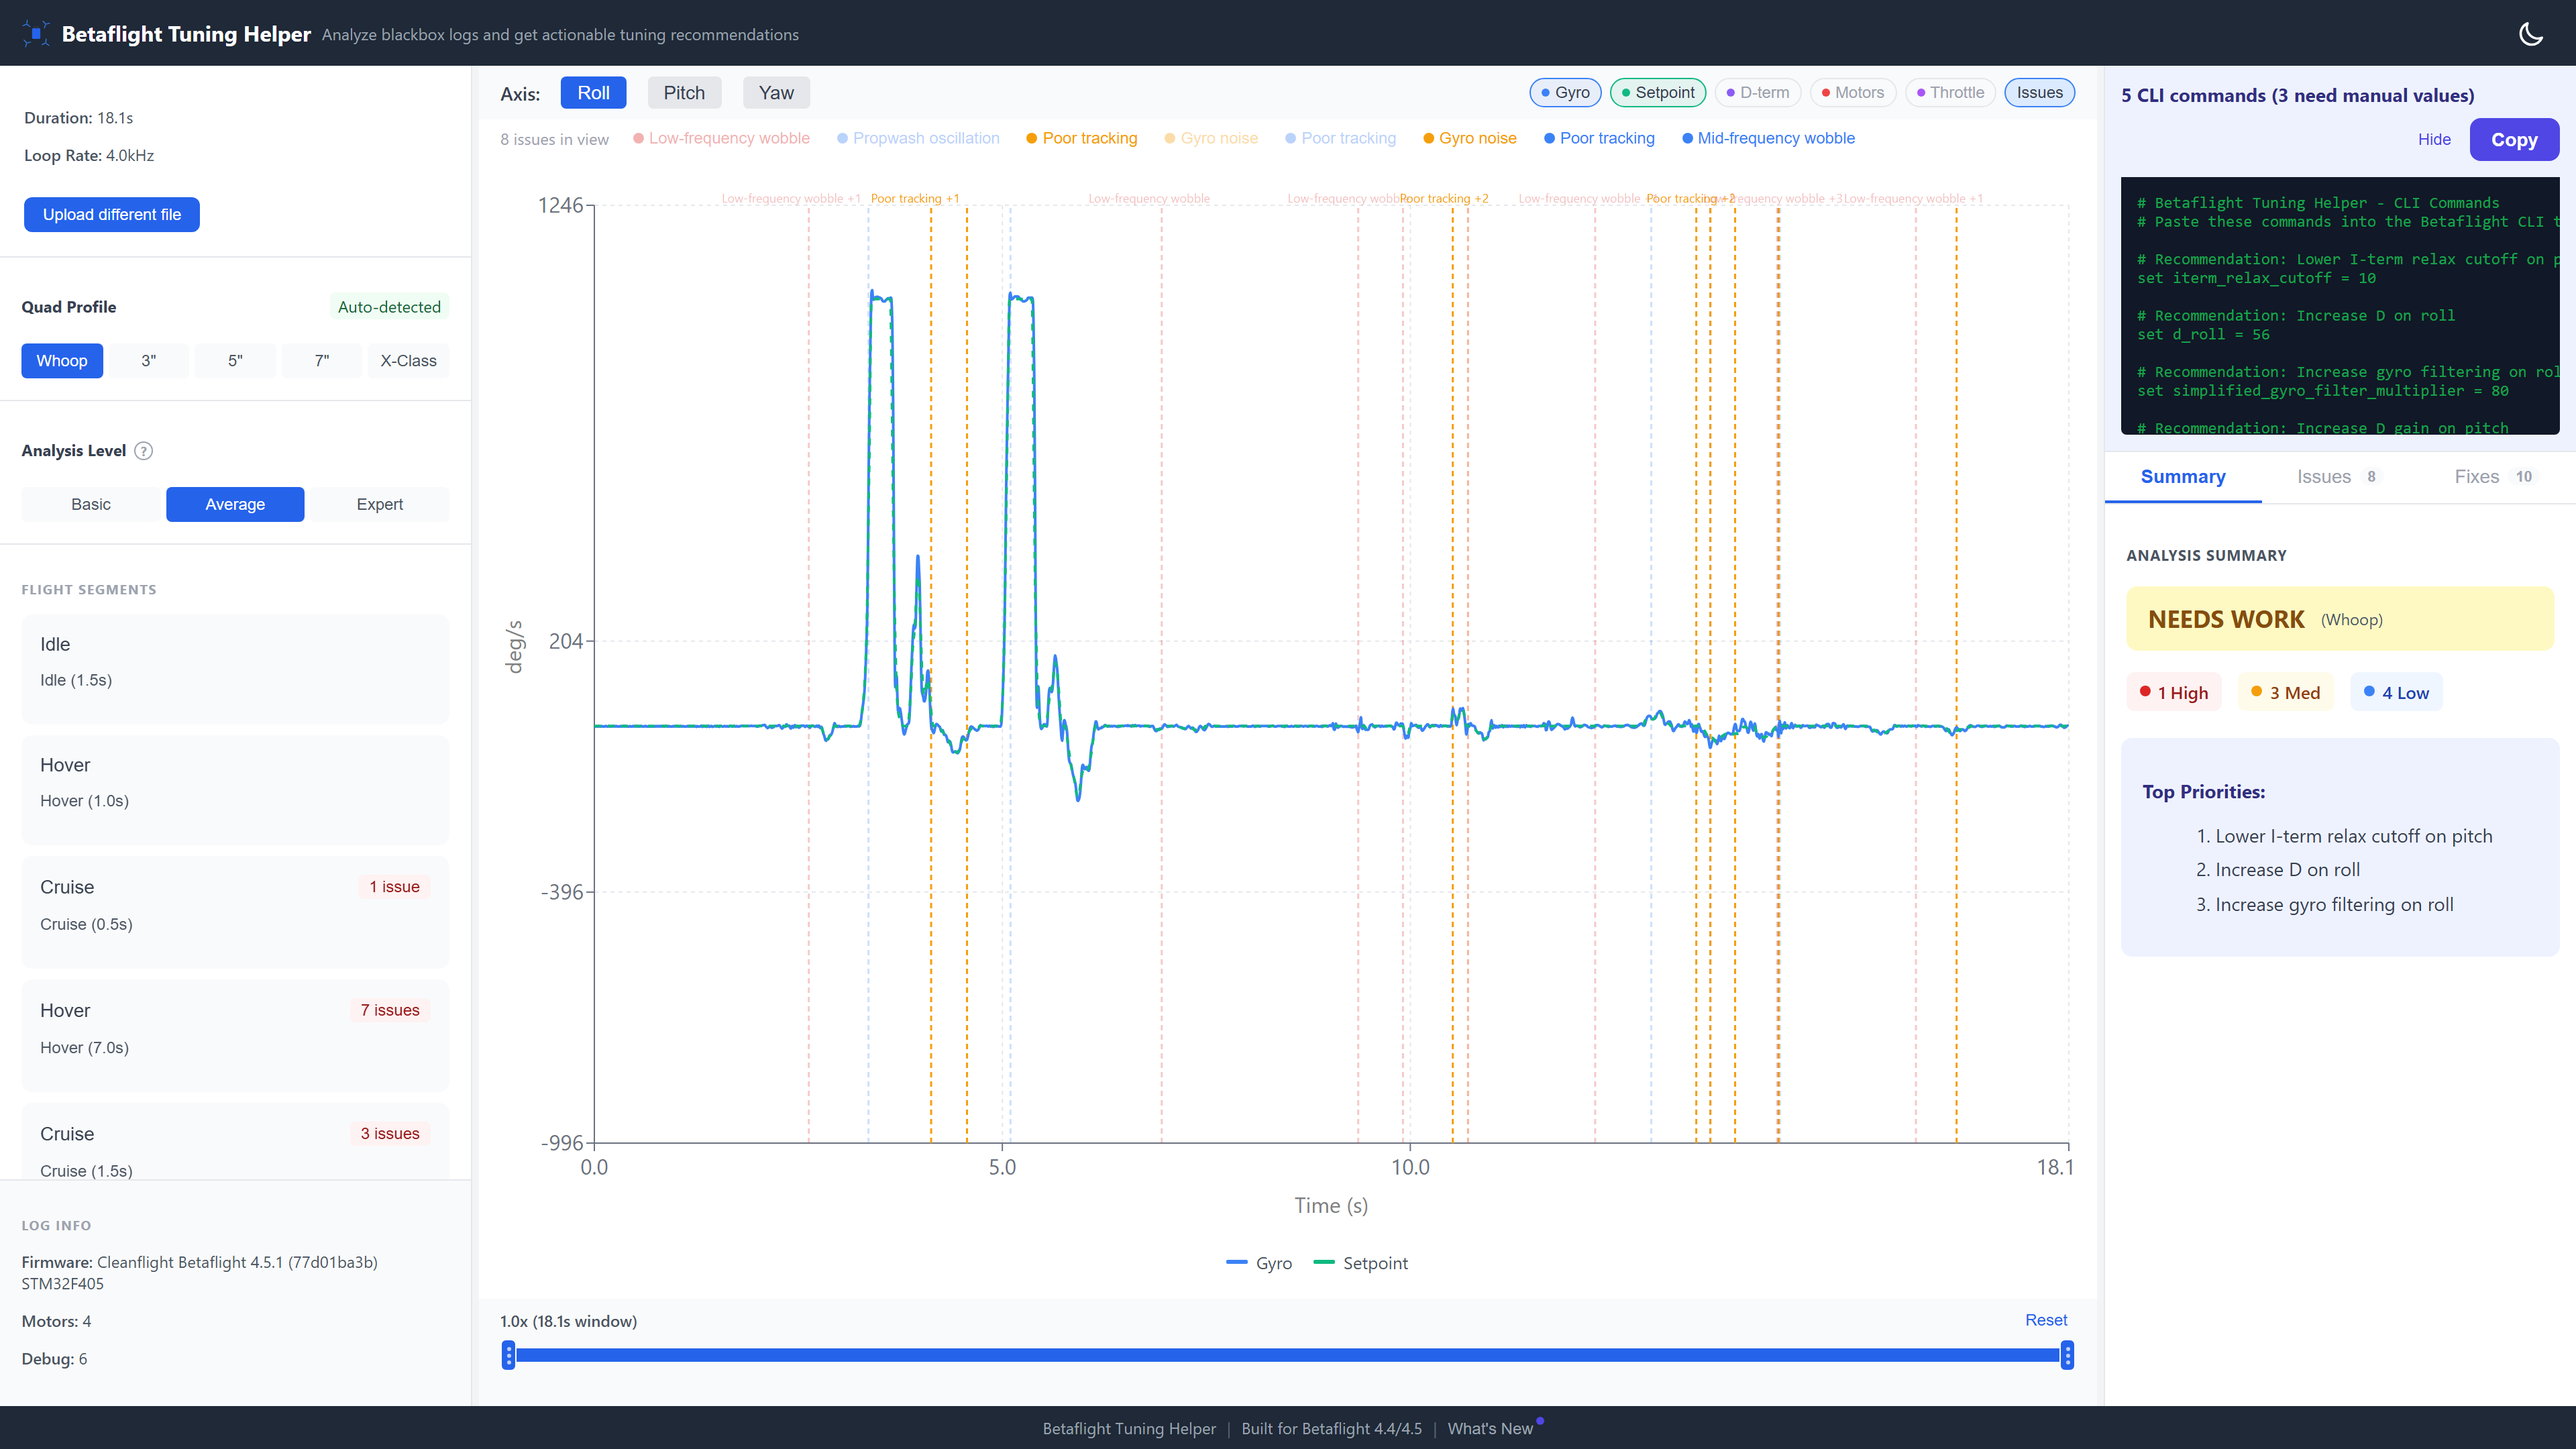
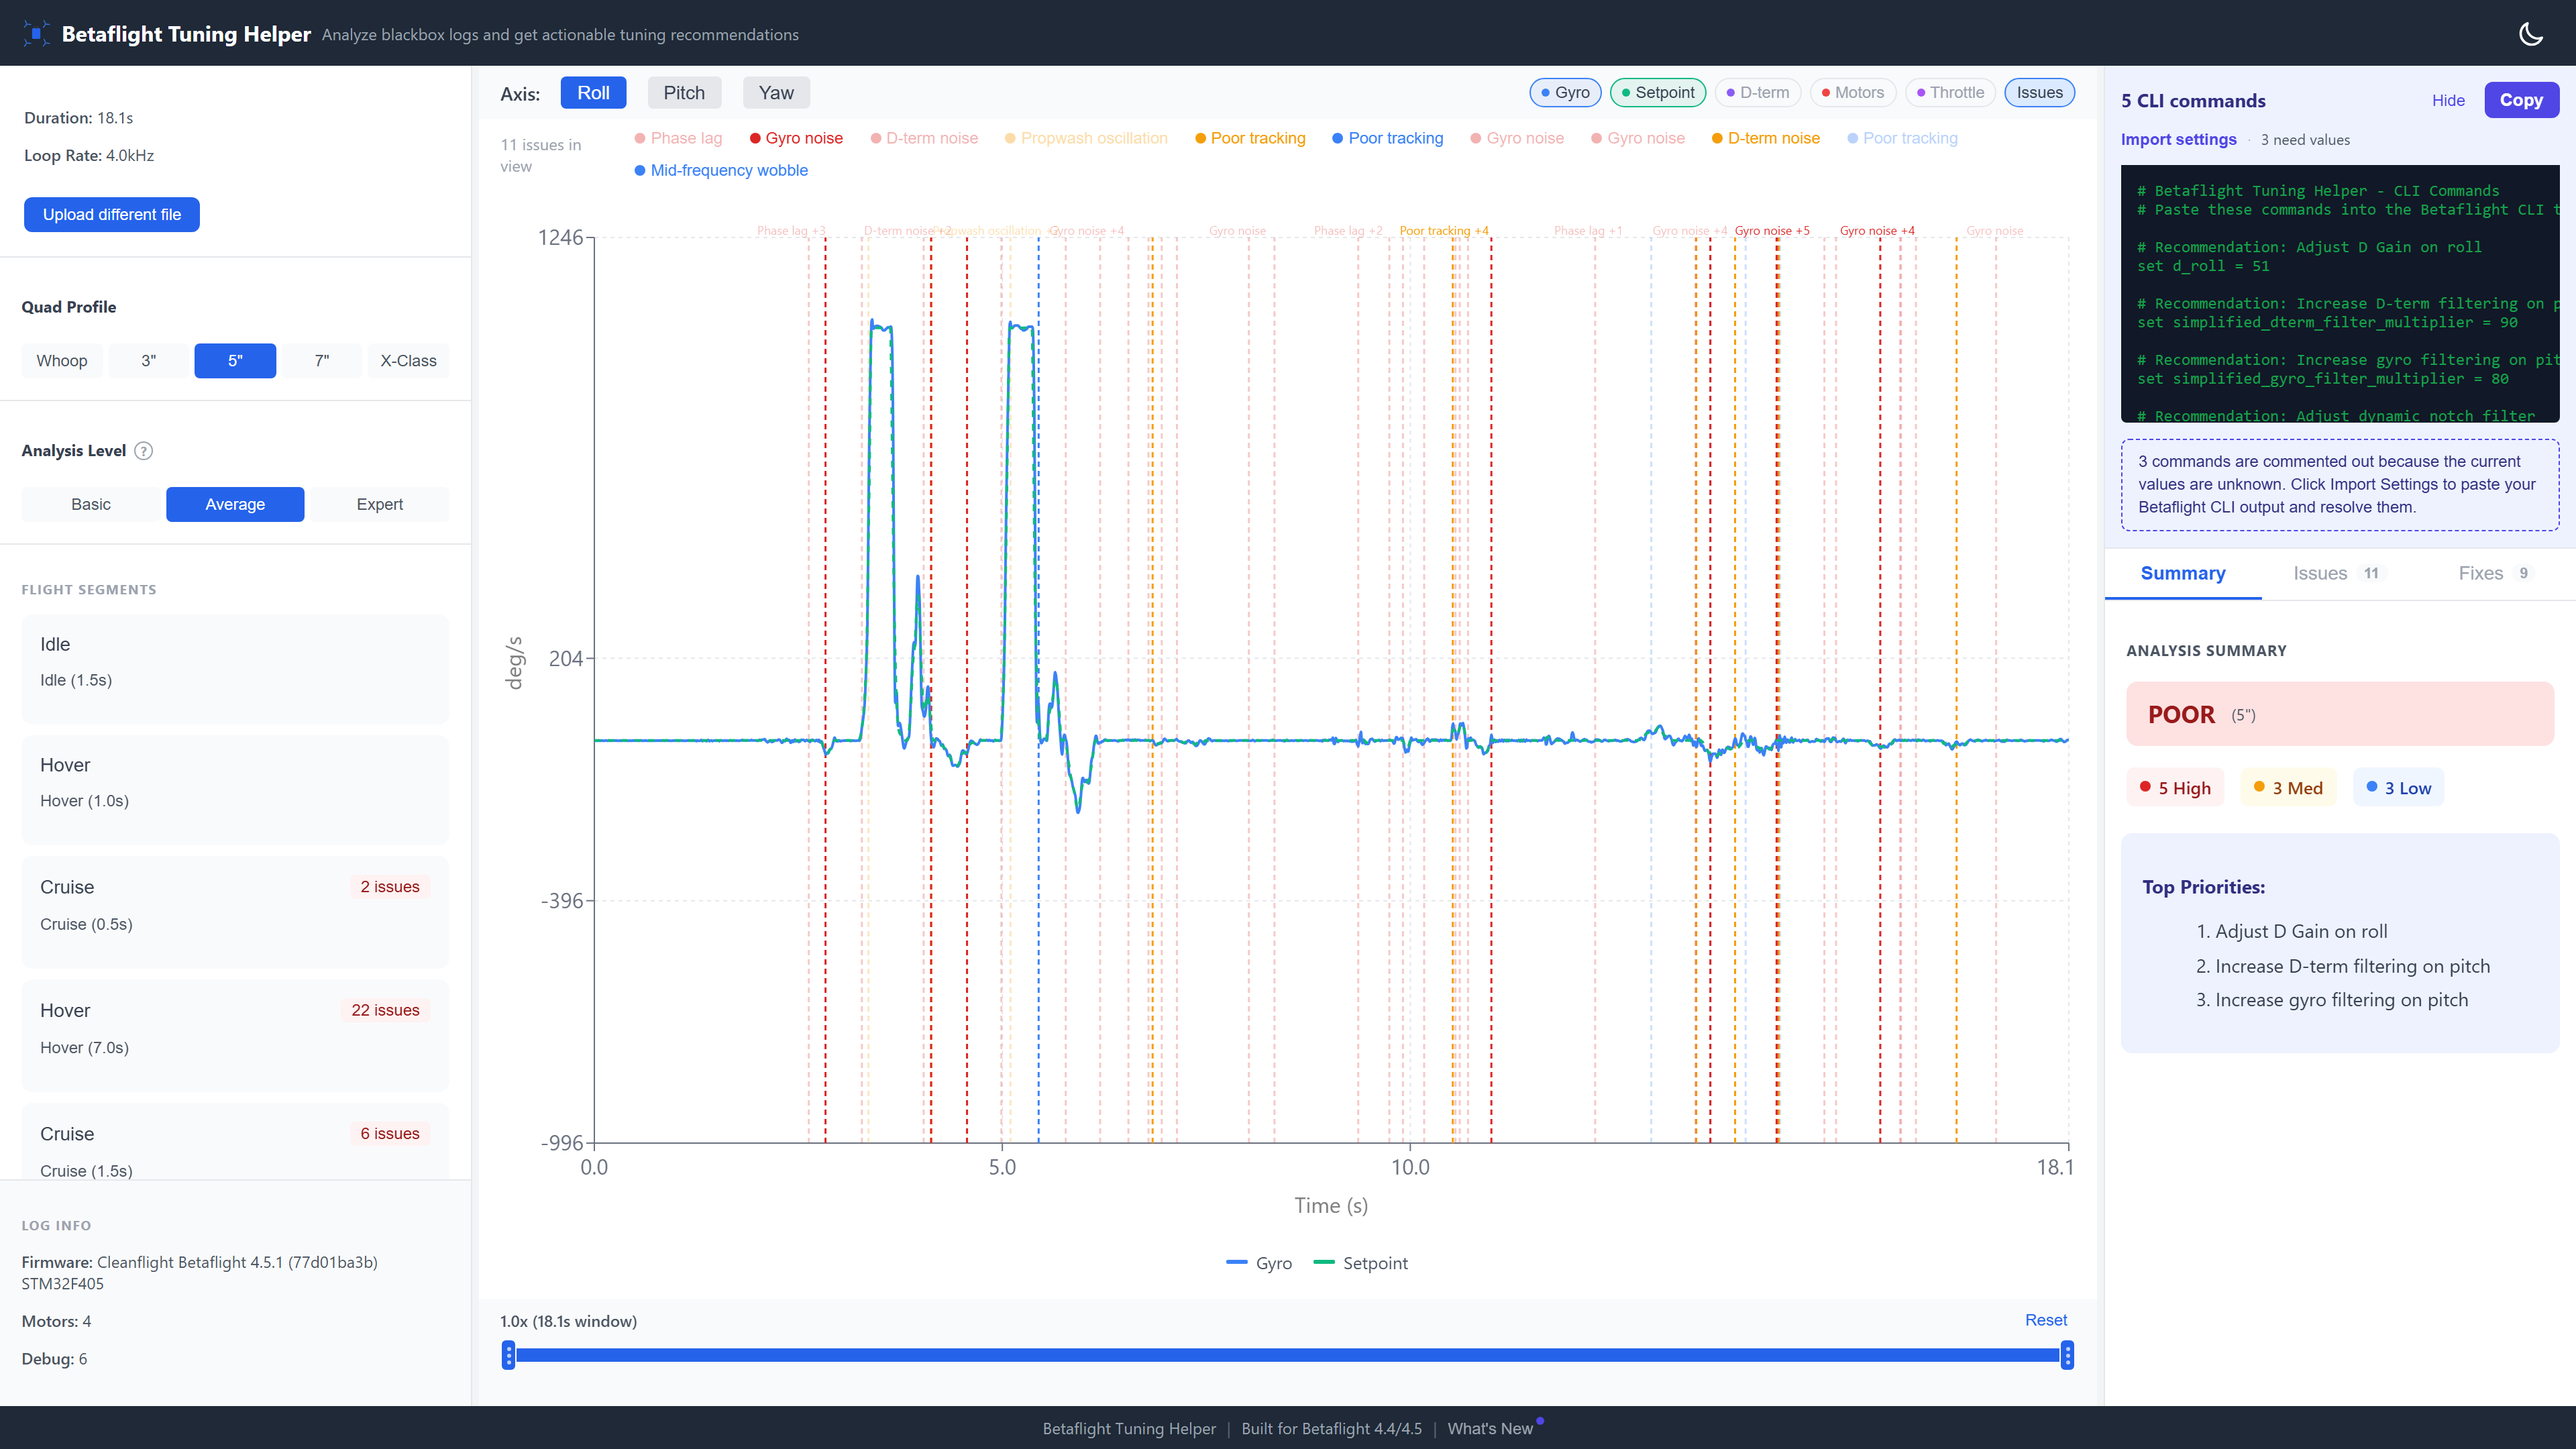
Default quad profile to 5" instead of unreliable auto-detection

diff --git a/src/components/ProfileSelector.tsx b/src/components/ProfileSelector.tsx
@@ -22,14 +22,6 @@ const SelectorTitle = styled.h3`
   color: ${p => p.theme.colors.text.primary};
 `
 
-const DetectionBadge = styled.span<{ variant: 'good' | 'low' }>`
-  font-size: 0.75rem;
-  padding: 0.125rem 0.375rem;
-  border-radius: 0.25rem;
-  color: ${p => p.variant === 'good' ? p.theme.colors.accent.greenText : p.theme.colors.severity.mediumText};
-  background-color: ${p => p.variant === 'good' ? p.theme.colors.accent.greenBg : p.theme.colors.severity.mediumBg};
-`
-
 const ButtonGroup = styled.div`
   display: flex;
   gap: 0.25rem;
@@ -50,15 +42,6 @@ const ProfileBtn = styled.button<{ isActive: boolean }>`
   &:hover {
     background-color: ${p => p.isActive ? p.theme.colors.button.primaryHover : p.theme.colors.button.secondaryHover};
   }
-`
-
-const ReasoningText = styled.p`
-  font-size: 0.75rem;
-  color: ${p => p.theme.colors.text.muted};
-  margin-top: 0.375rem;
-  overflow: hidden;
-  text-overflow: ellipsis;
-  white-space: nowrap;
 `
 
 const HelpIconWrapper = styled.span`
@@ -115,19 +98,12 @@ const ANALYSIS_LEVELS: { id: AnalysisLevel; label: string; description: string }
 
 export const ProfileSelector = observer(() => {
   const analysisStore = useAnalysisStore()
-  const detection = analysisStore.detectionResult
 
   return (
     <>
       <SelectorWrapper>
         <SelectorHeader>
           <SelectorTitle>Quad Profile</SelectorTitle>
-          {detection && detection.confidence >= 0.5 && (
-            <DetectionBadge variant="good">Auto-detected</DetectionBadge>
-          )}
-          {detection && detection.confidence < 0.5 && (
-            <DetectionBadge variant="low">Low confidence</DetectionBadge>
-          )}
         </SelectorHeader>
         <ButtonGroup>
           {QUAD_SIZE_ORDER.map(sizeId => {
@@ -145,11 +121,6 @@ export const ProfileSelector = observer(() => {
             )
           })}
         </ButtonGroup>
-        {detection && detection.reasoning.length > 0 && (
-          <ReasoningText title={detection.reasoning.join('; ')}>
-            {detection.reasoning[0]}
-          </ReasoningText>
-        )}
       </SelectorWrapper>
       <SelectorWrapper>
         <SelectorHeader>

diff --git a/src/data/changelog.ts b/src/data/changelog.ts
@@ -9,6 +9,7 @@ import type { ChangelogEntry } from '../domain/types/Changelog'
  */
 export const CHANGELOG_ENTRIES: ChangelogEntry[] = [
   // 2026-02-18
+  { hash: 'c4c64f6', date: '2026-02-18', message: 'Quad profile now defaults to 5" instead of unreliable auto-detection', category: 'improvement' },
   { hash: '9058924', date: '2026-02-18', message: 'Fix text wrapping on recommendation cards', category: 'fix' },
   { hash: 'a7dfd93', date: '2026-02-18', message: 'Redesigned summary panel with severity badges and top priorities', category: 'improvement' },
   { hash: '02cfb82', date: '2026-02-18', message: 'Colored chart toggle chips replace checkboxes', category: 'improvement' },
@@ -29,7 +30,7 @@ export const CHANGELOG_ENTRIES: ChangelogEntry[] = [
   { hash: '0c5ff5e', date: '2026-02-17', message: 'Issues toggle and independent motor Y-axis scaling', category: 'feature' },
   { hash: '332cba8', date: '2026-02-17', message: 'Scroll-to-zoom on chart', category: 'feature' },
   { hash: 'c1bb0c5', date: '2026-02-17', message: 'Dark mode with theme toggle', category: 'feature' },
-  { hash: '8570440', date: '2026-02-17', message: 'Quad profile auto-detection (Whoop, 3", 5", 7", X-Class)', category: 'feature' },
+  { hash: '8570440', date: '2026-02-17', message: 'Quad profile selector (Whoop, 3", 5", 7", X-Class)', category: 'feature' },
   { hash: 'f0d18d1', date: '2026-02-17', message: 'Copy-paste CLI commands for all recommendations', category: 'feature' },
   { hash: 'f0d18d1', date: '2026-02-17', message: 'Navigate between multiple occurrences of the same issue', category: 'feature' },
   { hash: '3cf3aae', date: '2026-02-17', message: 'Native .bbl/.bfl binary parser (no WASM needed)', category: 'feature' },

diff --git a/src/stores/AnalysisStore.ts b/src/stores/AnalysisStore.ts
@@ -3,7 +3,6 @@ import { AnalysisResult, DetectedIssue, Recommendation, FlightSegment } from '..
 import { RuleEngine } from '../domain/engine/RuleEngine'
 import { QuadProfile, QuadSize, ThresholdScaling } from '../domain/types/QuadProfile'
 import { QUAD_PROFILES, DEFAULT_PROFILE } from '../domain/profiles/quadProfiles'
-import { detectQuadSize, DetectionResult } from '../domain/profiles/detectQuadSize'
 import { LogStore } from './LogStore'
 
 export type AnalysisStatus = 'idle' | 'analyzing' | 'complete' | 'error'
@@ -38,8 +37,6 @@ export class AnalysisStore {
   quadProfile: QuadProfile = DEFAULT_PROFILE
   analysisLevel: AnalysisLevel = 'average'
   isReanalyzing: boolean = false
-  detectionResult: DetectionResult | null = null
-
   private logStore: LogStore
   private ruleEngine: RuleEngine
 
@@ -148,14 +145,6 @@ export class AnalysisStore {
     })
 
     try {
-      if (this.logStore.metadata && !this.detectionResult) {
-        const detection = detectQuadSize(this.logStore.metadata)
-        runInAction(() => {
-          this.detectionResult = detection
-          this.quadProfile = QUAD_PROFILES[detection.suggestedSize]
-        })
-      }
-
       await new Promise(resolve => setTimeout(resolve, 100))
 
       runInAction(() => {
@@ -227,7 +216,6 @@ export class AnalysisStore {
     this.selectedRecommendationId = null
     this.quadProfile = DEFAULT_PROFILE
     this.analysisLevel = 'average'
-    this.detectionResult = null
   }
 
   selectSegment = (segmentId: string | null): void => {
